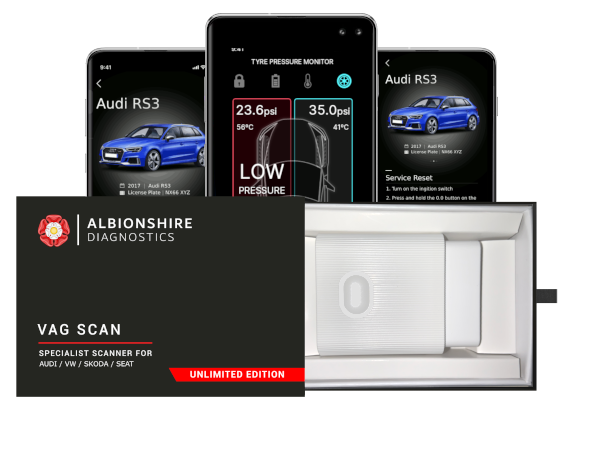
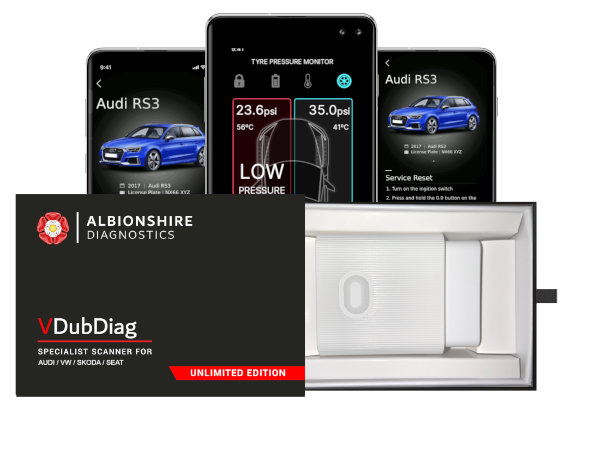
update

diff --git a/index.html b/index.html
@@ -41,9 +41,7 @@
 
       href="assets/img/favicon.png">
     <title>
-      VAG
-      Scan
-      Tool
+      Albionshire Car Diagostics | VDubDiag
       Dealer
       Level
       OBDII / OBD2
